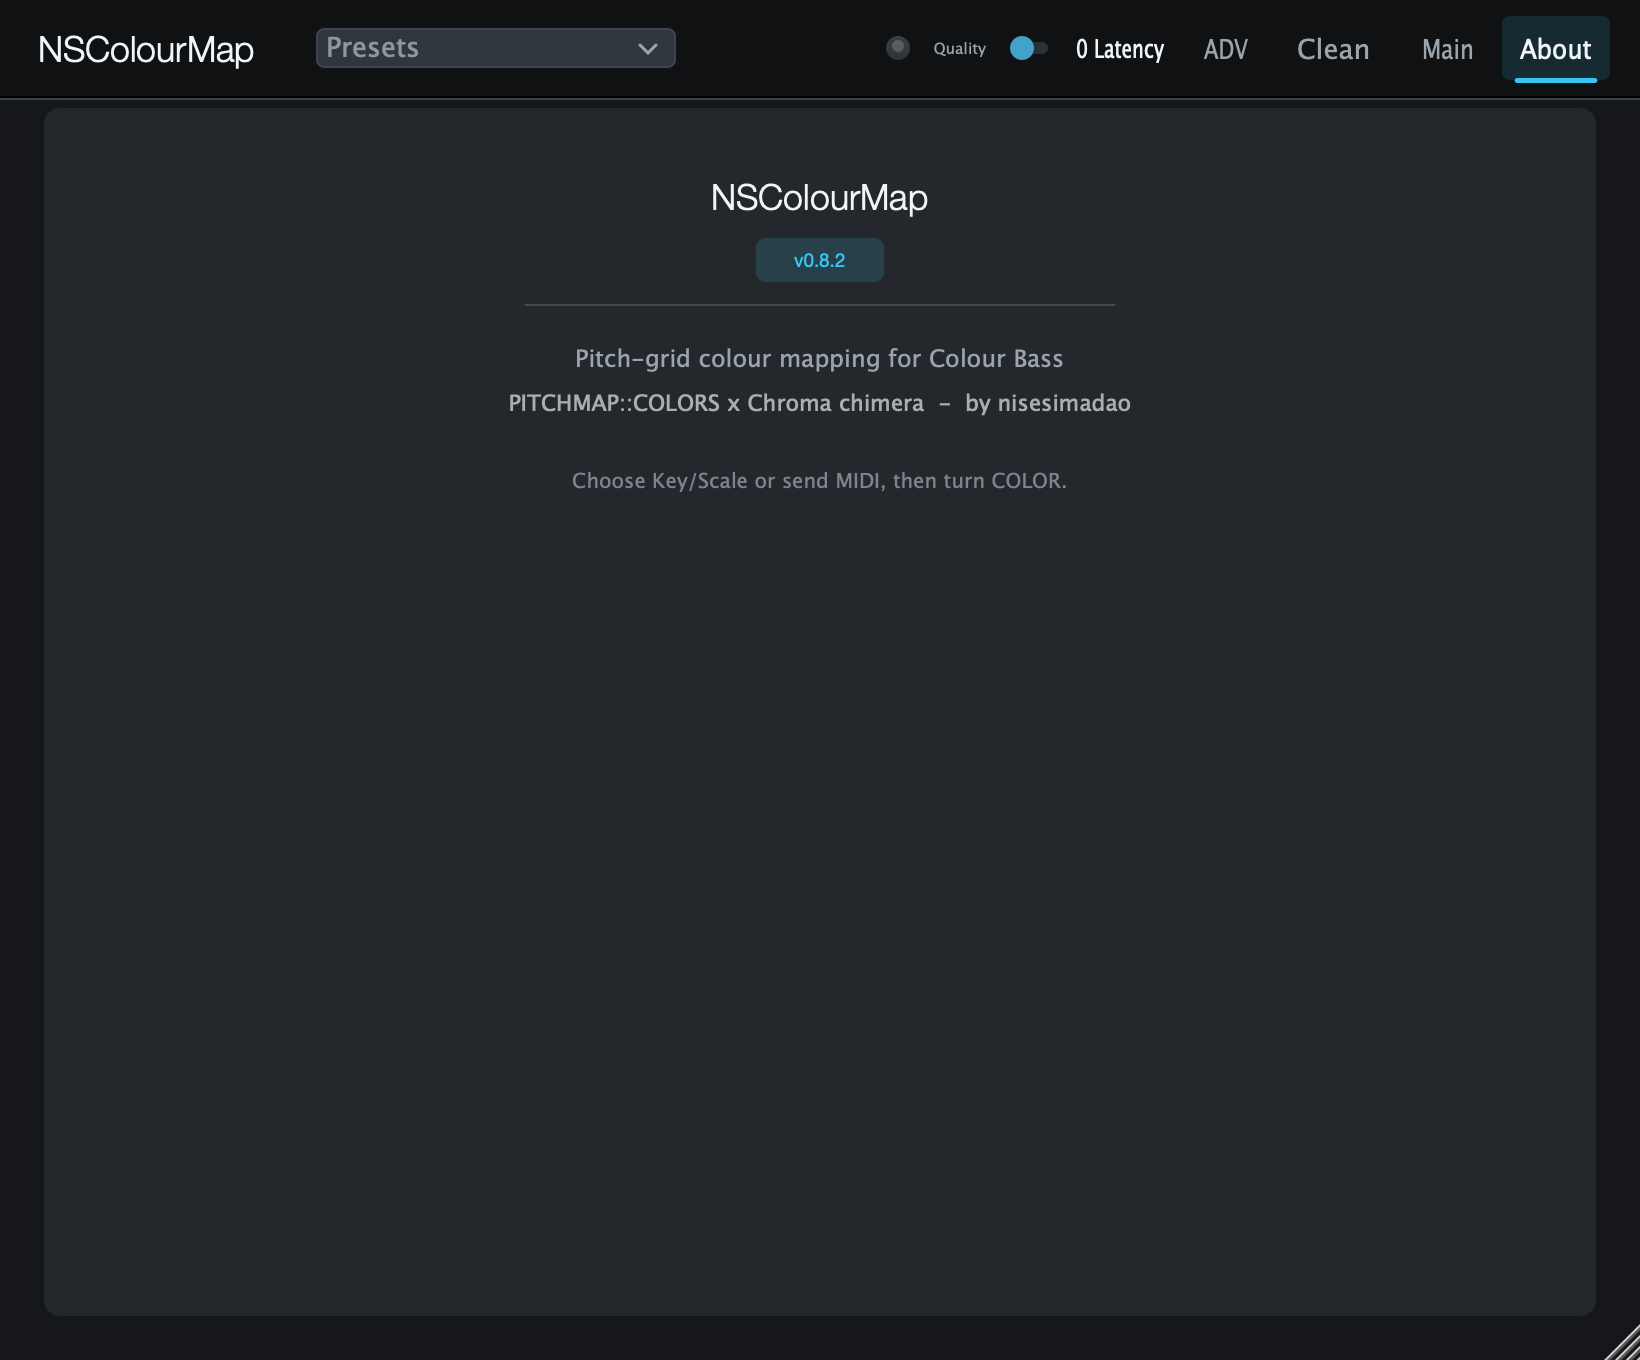
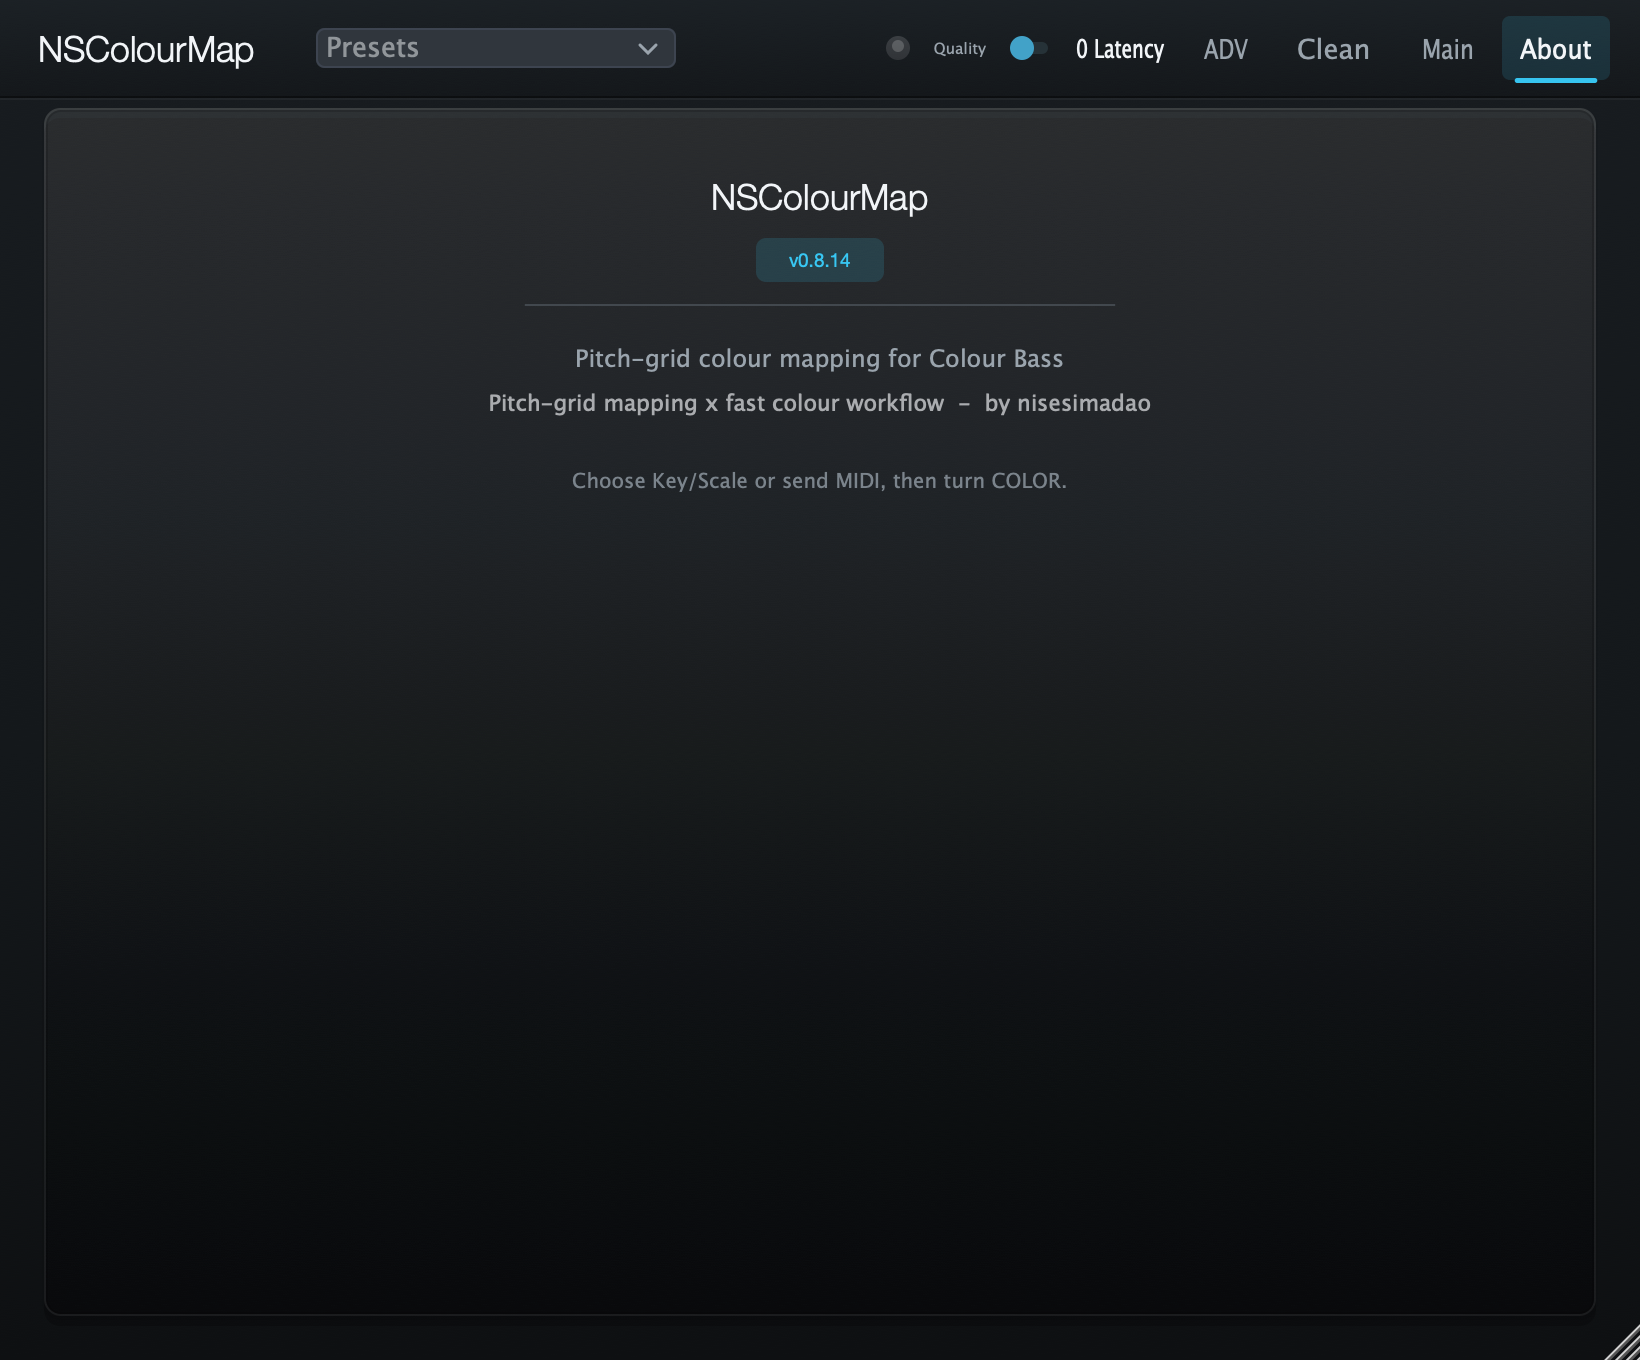
docs: refresh README media links and screenshots
README audio examples now link to raw GitHub WAV files so they open as playable audio instead of repository blob/binary views. UI screenshots are regenerated from the current v0.8.14 editor.

Version 0.8.14.

Changed region(s): [[0.0311, 0.7103, 0.9951, 0.9882], [0.311, 0.2779, 0.7152, 0.3088], [0.4665, 0.1853, 0.5287, 0.2162]]

diff --git a/Source/PluginEditor.cpp b/Source/PluginEditor.cpp
@@ -875,7 +875,7 @@ void NSColourMapAudioProcessorEditor::paint (juce::Graphics& g)
         g.fillRoundedRectangle (badge, 5.0f);
         g.setColour (accent);
         g.setFont (sectionFont());
-        g.drawText ("v0.8.13", badge.toNearestInt(), juce::Justification::centred);
+        g.drawText ("v0.8.14", badge.toNearestInt(), juce::Justification::centred);
         area.removeFromTop (34);
 
         g.setColour (panelLight.brighter (0.1f));

diff --git a/samples/README.md b/samples/README.md
@@ -2,6 +2,10 @@
 
 These files are README examples for the NSColourMap colour-mapping sound.
 
+Use raw GitHub URLs for README playback links. Relative `.wav` links open the
+repository blob view on GitHub, which can look like binary text instead of an
+audio player.
+
 - `source/bigsoundbank_0836_urinal_flush_water_cc0.wav`
   - Source: BigSoundBank #0836 "Urinal flush water"
   - URL: https://bigsoundbank.com/urinal-flush-water-s0836.html
